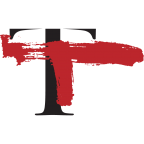
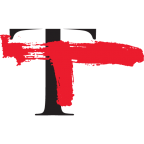
Pantone 185C

Changed region(s): [[0.0, 0.1944, 1.0, 0.75], [0.2222, 0.75, 0.5278, 0.8056], [0.1111, 0.1944, 0.1389, 0.2222]]

diff --git a/css/main.css b/css/main.css
@@ -30,12 +30,14 @@ html {
  */
 
 ::-moz-selection {
-    background: #b3d4fc;
+    color: #fff;
+    background: #eb0029;
     text-shadow: none;
 }
 
 ::selection {
-    background: #b3d4fc;
+    color: #fff;
+    background: #eb0029;
     text-shadow: none;
 }
 
@@ -110,7 +112,7 @@ h2{
     font-style: italic;
     font-weight: normal;
     font-size: 3em;
-    color: #bc262c;
+    color: #eb0029;
 }
 
 header, section {
@@ -192,7 +194,7 @@ canvas,
 }
 
 .intro{
-    background-color: #bc262c;
+    background-color: #eb0029;
     background: url(../img/intro.jpg) no-repeat center center;
     -webkit-background-size: cover;
     -moz-background-size: cover;
